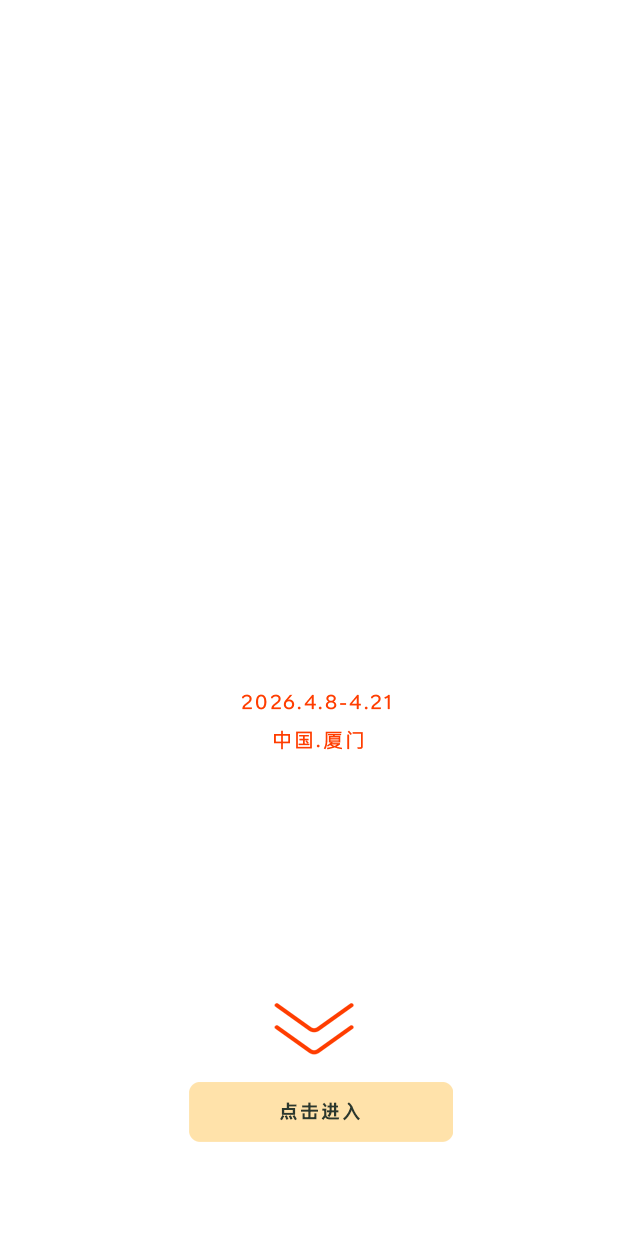
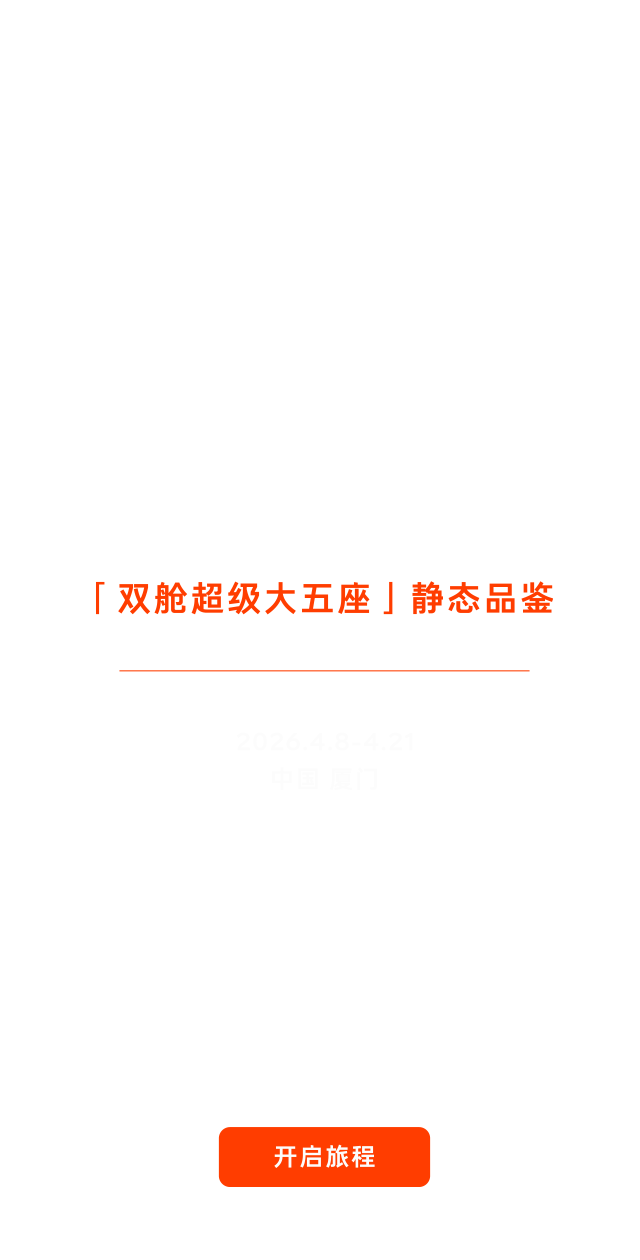
页面调整

diff --git a/page3.html b/page3.html
@@ -74,9 +74,9 @@
             left: 20px;
             display: flex;
             align-items: center;
-            gap: 6px;
             color: #7F7E7E;
-            font-size: 14px;
+            font-size: 15px;
+            font-weight: 400;
             cursor: pointer;
             z-index: 15;
         }
@@ -87,7 +87,7 @@
         }
 
         .back-btn svg path {
-            stroke: #fff;
+            stroke: #7F7E7E;
             stroke-width: 2;
             fill: none;
             stroke-linecap: round;
@@ -133,7 +133,8 @@
 
         .initial-text {
             font-size: 24px;
-            color: #fff;
+            color: #FFF;
+            font-weight: 300;
             letter-spacing: 2px;
             margin-bottom: 20px;
             text-shadow: 0 1px 3px rgba(0,0,0,0.3);
@@ -210,16 +211,16 @@
         }
 
         .feature-title {
-            font-size: 15px;
+            font-size: 20px;
             font-weight: 600;
             color: #7F7E7E;
-            margin-bottom: 6px;
         }
 
         .feature-desc {
-            font-size: 13px;
+            font-size: 15px;
+            font-weight: 600;
             color: rgba(127, 126, 126, 0.85);
-            line-height: 1.7;
+            line-height: 1.5;
         }
 
         .slogan {
@@ -228,12 +229,12 @@
         }
 
         .slogan-text {
-            font-size: 18px;
-            font-weight: 700;
+            font-size: 20px;
+            font-weight: 600;
             color: #7F7E7E;
             letter-spacing: 2px;
-            line-height: 1.6;
-            text-shadow: 0 2px 4px rgba(0, 0, 0, 0.3);
+            line-height: 1.5;
+            /*text-shadow: 0 2px 4px rgba(0, 0, 0, 0.3);*/
         }
 
         .detail-content::-webkit-scrollbar {
@@ -246,10 +247,6 @@
 
         @media (max-width: 375px) {
             .initial-text {
-                font-size: 16px;
-            }
-
-            .detail-title {
                 font-size: 16px;
             }
 
@@ -278,7 +275,7 @@
 
     <div class="back-btn" onclick="location.href='page2.html'">
         <svg viewBox="0 0 24 24" xmlns="http://www.w3.org/2000/svg">
-            <path d="M15 18L9 12L15 6"/>
+            <path d="M14 19L8 12L14 5"/>
         </svg>
         <span>返回</span>
     </div>

diff --git a/index.html b/index.html
@@ -40,12 +40,12 @@
 
         .btn-enter {
             position: absolute;
-            border: none;
-            bottom: 75px;
+            border: 1px solid rgba(255, 255, 255, 0.5);
+            bottom: 5%;
             left: 50%;
             transform: translateX(-50%);
             width: 200px;
-            height: 50px;
+            height: 55px;
             background: transparent;
             cursor: pointer;
             z-index: 10;
